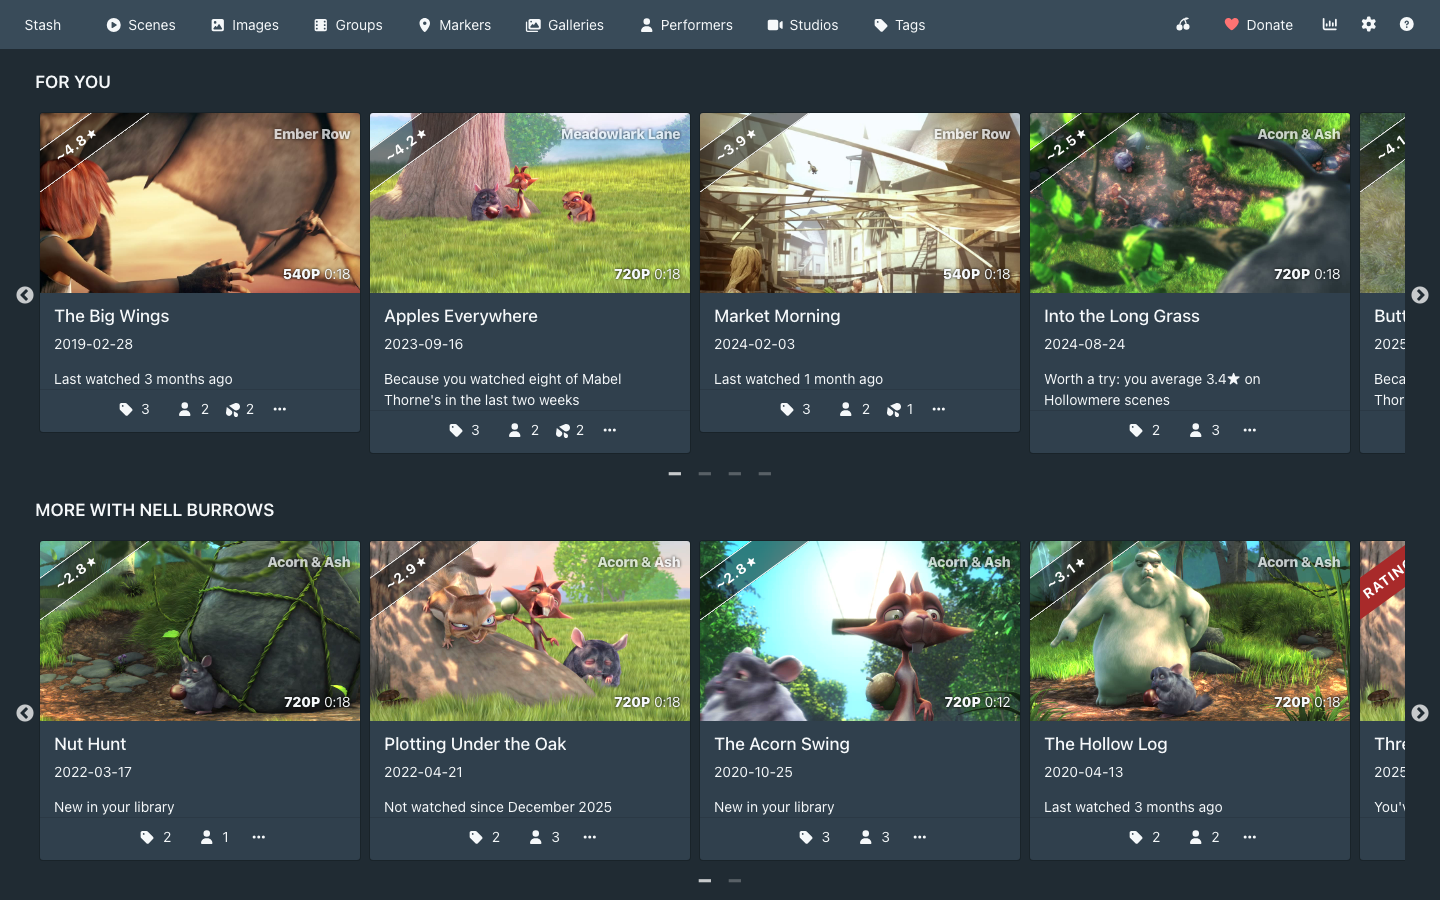
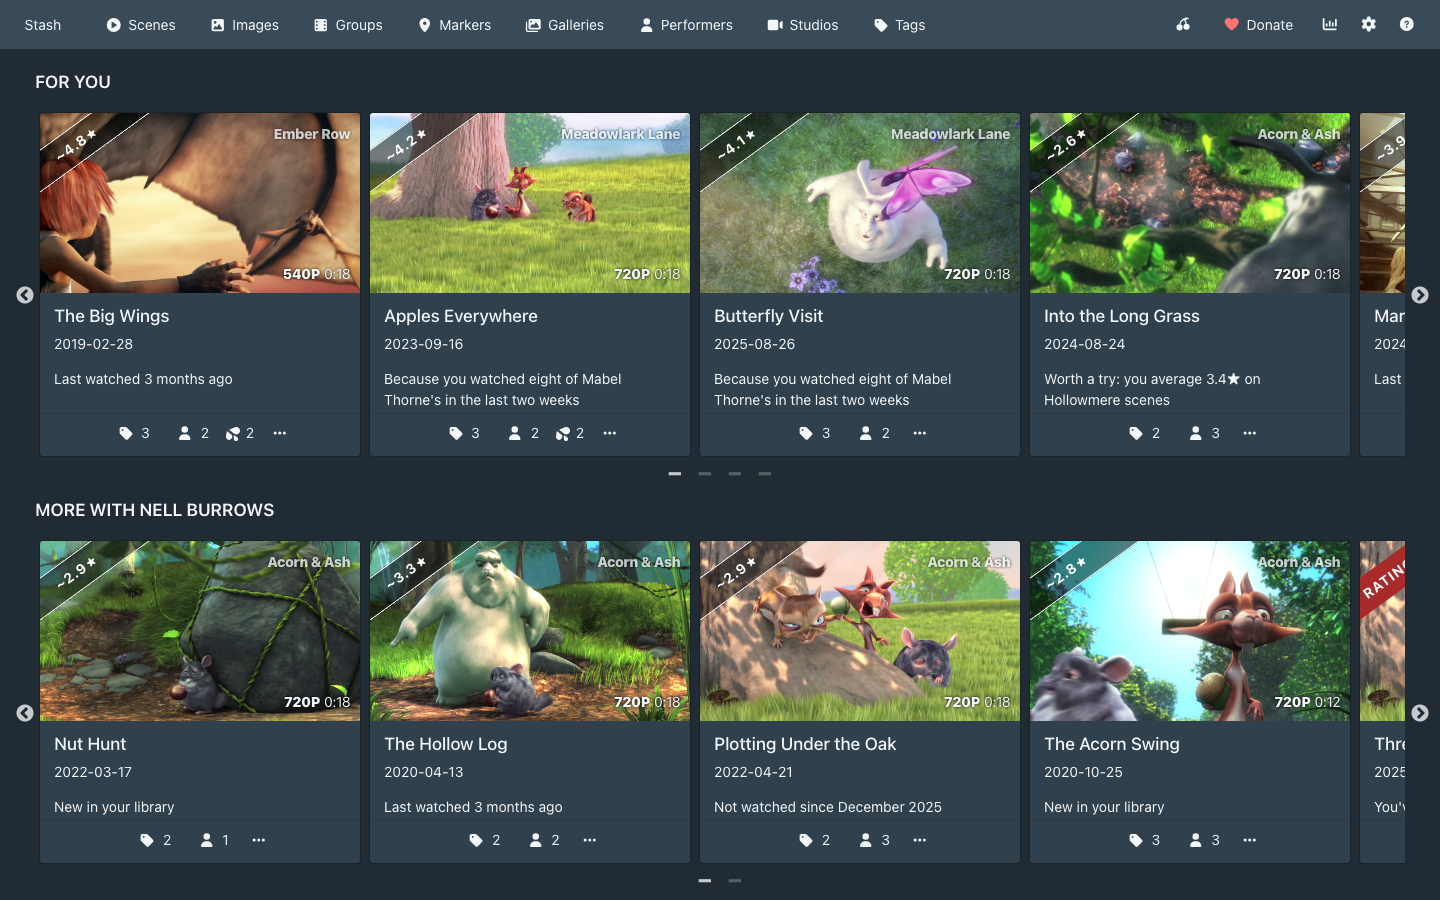
Retake Cherry Pick's row screenshots on 0.1.6
front.png, phone.png and more-like-this.png were taken on 0.1.5 and
showed the uneven card bottoms 0.1.6 fixed (#113, #114): in For you and
More like this, a card whose reason fit on one line ended about 20px
above one whose reason took two. They are retaken on the Blender library
with tests/screenshots/, after the same performer bracket and Challenge
round as before, and every card in each row now ends at the same
height. The README says 0.1.6.

diff --git a/plugins/cherrypick/README.md b/plugins/cherrypick/README.md
@@ -2,7 +2,7 @@
 
 A [Stash](https://github.com/stashapp/stash) plugin that learns what you like from your own ratings and plays, and shows it inside Stash's pages: a For you row on the front page, Your score on scenes you haven't rated, More like this on scene pages, and performer and scene brackets that sharpen what it learns. It needs no account and no setup. A StashDB key, if you have one in Stash, adds popularity and the scenes you don't have.
 
-Cherry Pick 0.1.5 is built and tested on Stash v0.31.1.
+Cherry Pick 0.1.6 is built and tested on Stash v0.31.1.
 
 ![The front page with Cherry Pick: For you first, each card saying why it is there, then a row of one performer's scenes](docs/screenshots/front.png)
 
